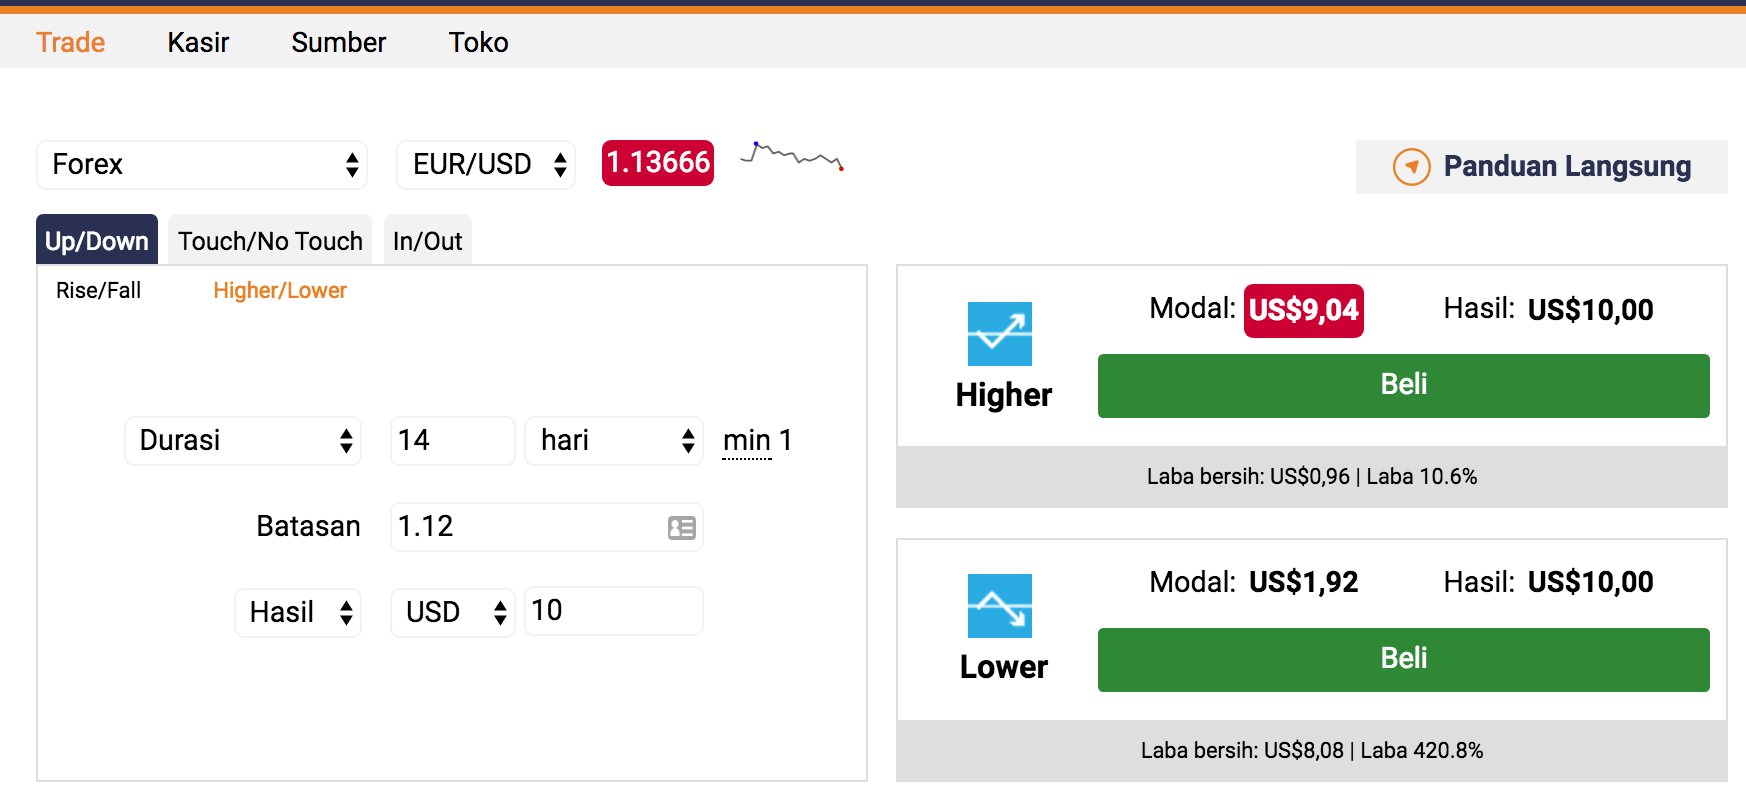
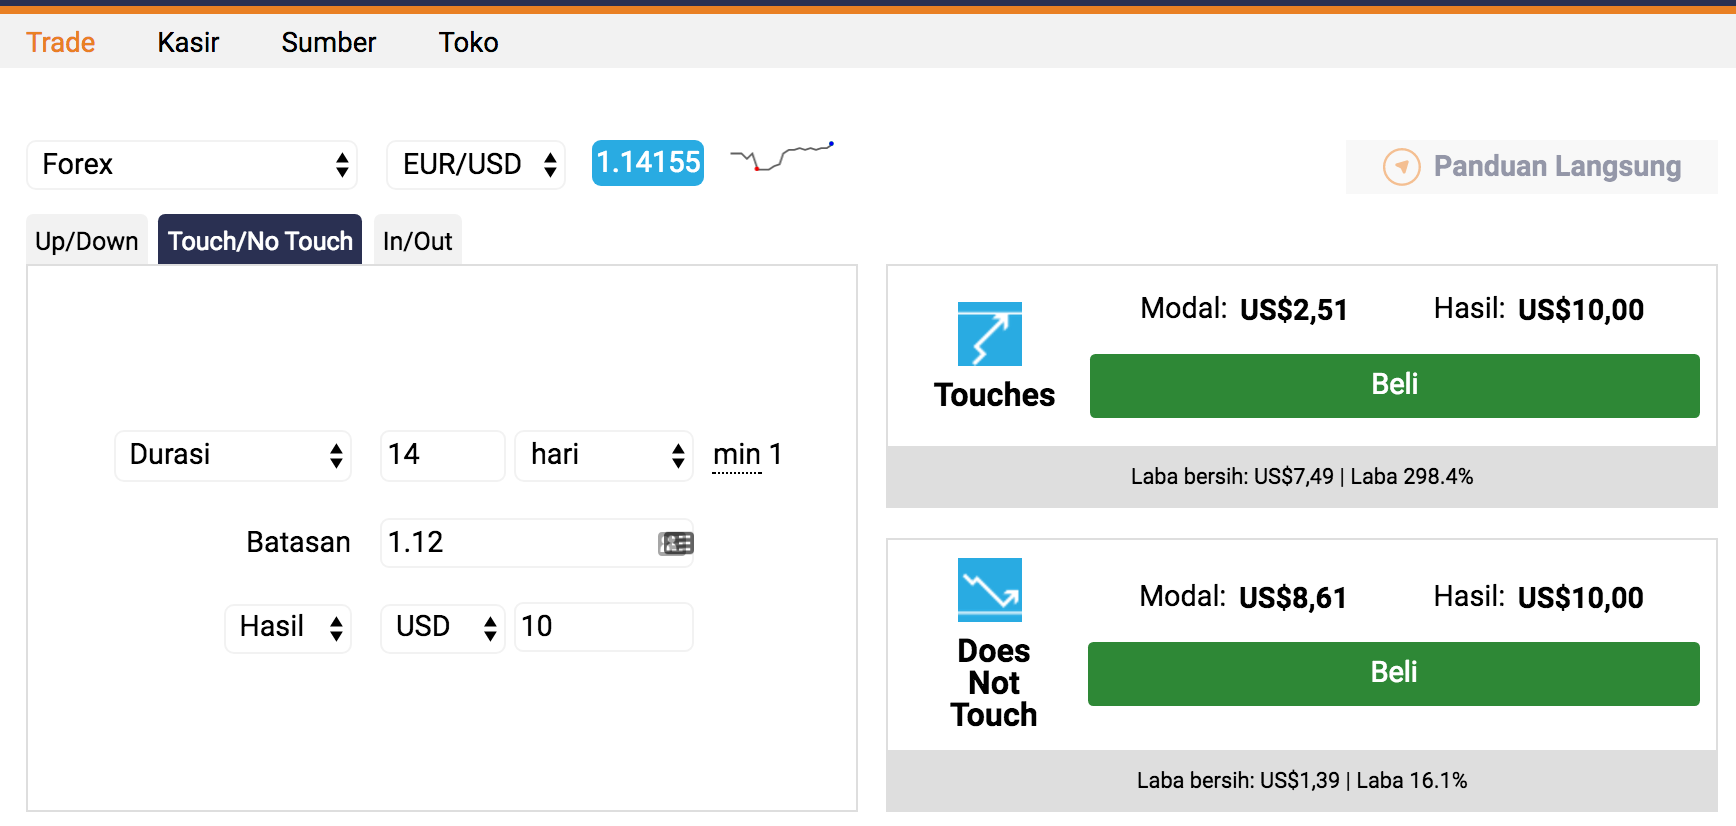
id

diff --git a/_posts/id/2017-07-06-report-id.md b/_posts/id/2017-07-06-report-id.md
@@ -27,8 +27,8 @@ Inventaris minyak mentah AS mengikuti pada pukul 16.00
 
 ## Analisa
 
-Semburan akhir Juni mulai tenang bagi EUR/USD namun mungkin akan terjadi penurunan pada level harga. 
+Semburan akhir Juni mulai tenang bagi EUR/USD namun mungkin akan terjadi penurunan pada level harga.  
 
 <img src="{{ site.url }}/images/id-06-july-17.png" alt="{{ page.title }}" title="{{ page.title }}">
 
-<a href="%LINK%%?currency=USD& market=forex&underlying=frxEURUSD&formname=touchnotouch&duration_amount=14&duration_units=d&amount=10&amount_type=payout&expiry_type=duration&barrier=1.12" target="_blank">Cara terbaik untuk memanfaatkan situasi ini adalah dengan bertrading LOWER menganalisa EUR/USD akan ditutup dibawah 1.1200 dalam tempo 14 hari dengan potensi laba sekitar 133%.</a>
+<a href="%LINK%%?currency=USD& market=forex&underlying=frxEURUSD&formname=touchnotouch&duration_amount=14&duration_units=d&amount=10&amount_type=payout&expiry_type=duration&barrier=1.12" target="_blank">Cara terbaik untuk memanfaatkan situasi ini adalah dengan bertrading TOUCH menganalisa EUR/USD akan menyentuh 1.1200 dalam tempo 14 hari dengan potensi laba sekitar 133%.</a>
